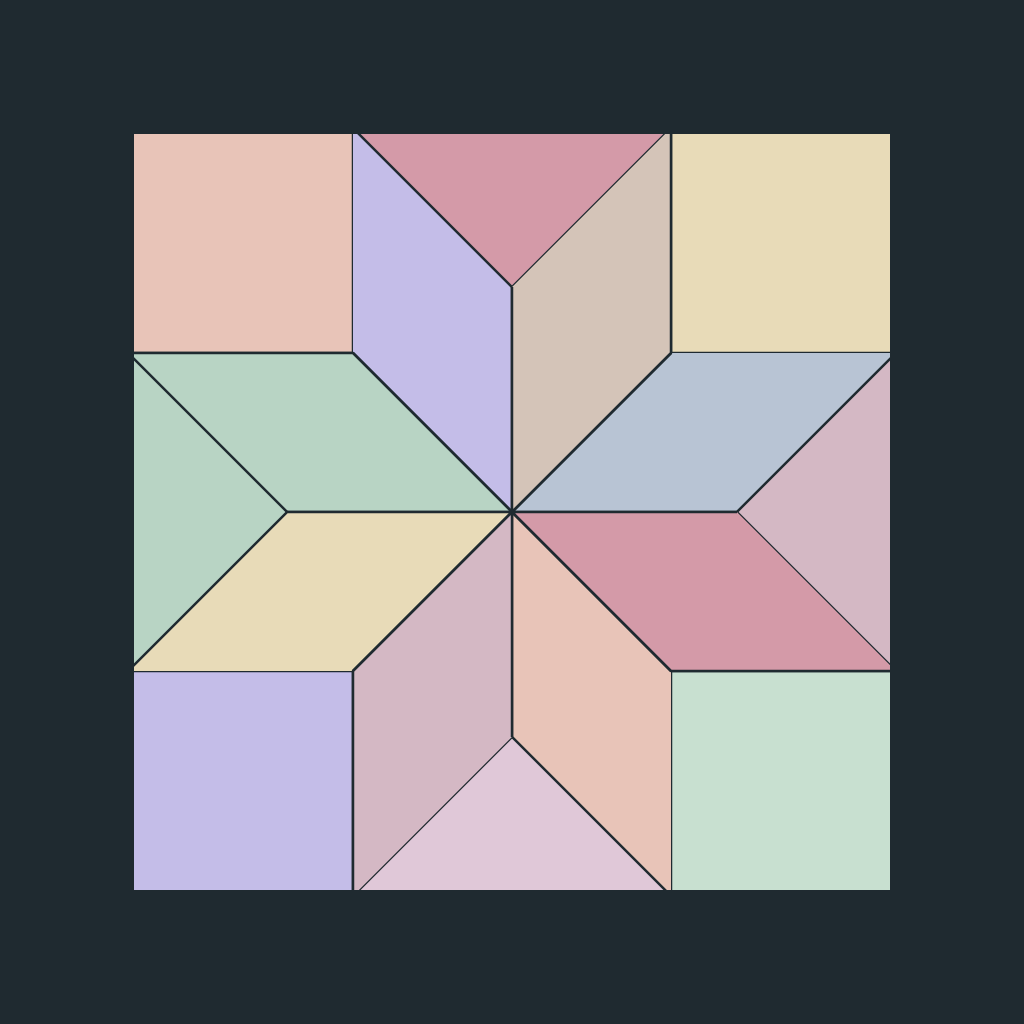
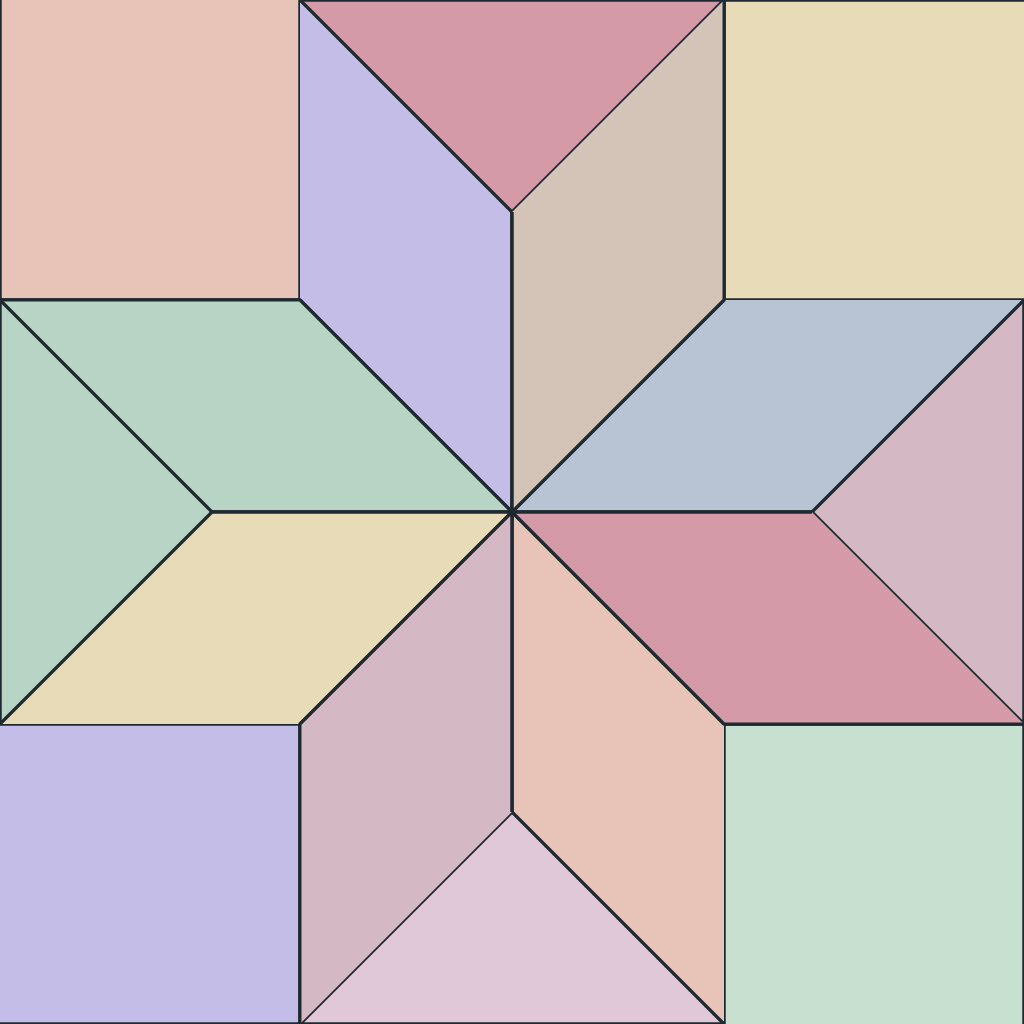
fix: アイコンの境界線を除去しフルブリードデザインに変更
アプリアイコンの外枠ボーダーを削除し、パッチワークが
全面に広がるフルブリードレイアウトに修正。
.gitignore に .claude/settings.json を追加。

diff --git a/scripts/generate-icons.js b/scripts/generate-icons.js
@@ -6,11 +6,10 @@ const { Resvg } = require('@resvg/resvg-js');
 const fs = require('fs');
 const path = require('path');
 
-// ── アプリアイコン（1024×1024, ダークネイビー + Lemon Star パッチワーク） ──
+// ── アプリアイコン（1024×1024, Lemon Star パッチワーク・フルブリード） ──
 const APP_ICON_SVG = `<?xml version="1.0" encoding="UTF-8"?>
 <svg xmlns="http://www.w3.org/2000/svg" viewBox="0 0 1024 1024" width="1024" height="1024">
-  <rect width="1024" height="1024" fill="#1F2A30"/>
-  <g transform="translate(128 128) scale(1.92)">
+  <g transform="scale(2.56)">
     <path d="M 0 0 L 0 117.157288 L 117.157288 117.157288 L 117.157288 0" fill="#e8c4b8" stroke="#1F2A30" stroke-width="1.3" stroke-linejoin="round"/>
     <path d="M 117.157288 0 L 282.842712 0 L 200 82.842712" fill="#D49AA8" stroke="#1F2A30" stroke-width="1.3" stroke-linejoin="round"/>
     <path d="M 117.157288 0 L 200 82.842712 L 200 200 L 117.157288 117.157288" fill="#c4bde8" stroke="#1F2A30" stroke-width="1.3" stroke-linejoin="round"/>
@@ -28,7 +27,6 @@ const APP_ICON_SVG = `<?xml version="1.0" encoding="UTF-8"?>
     <path d="M 0 282.842712 L 82.842712 200 L 200 200 L 117.157288 282.842712" fill="#e8dbb8" stroke="#1F2A30" stroke-width="1.3" stroke-linejoin="round"/>
     <path d="M 117.157288 400 L 117.157288 282.842712 L 200 200 L 200 317.157288" fill="#d4b8c4" stroke="#1F2A30" stroke-width="1.3" stroke-linejoin="round"/>
   </g>
-  <rect x="128" y="128" width="768" height="768" fill="none" stroke="#1F2A30" stroke-width="12"/>
 </svg>`;
 
 // ── スプラッシュ画像（1242×2688, 温かみのあるオフホワイト背景） ──
